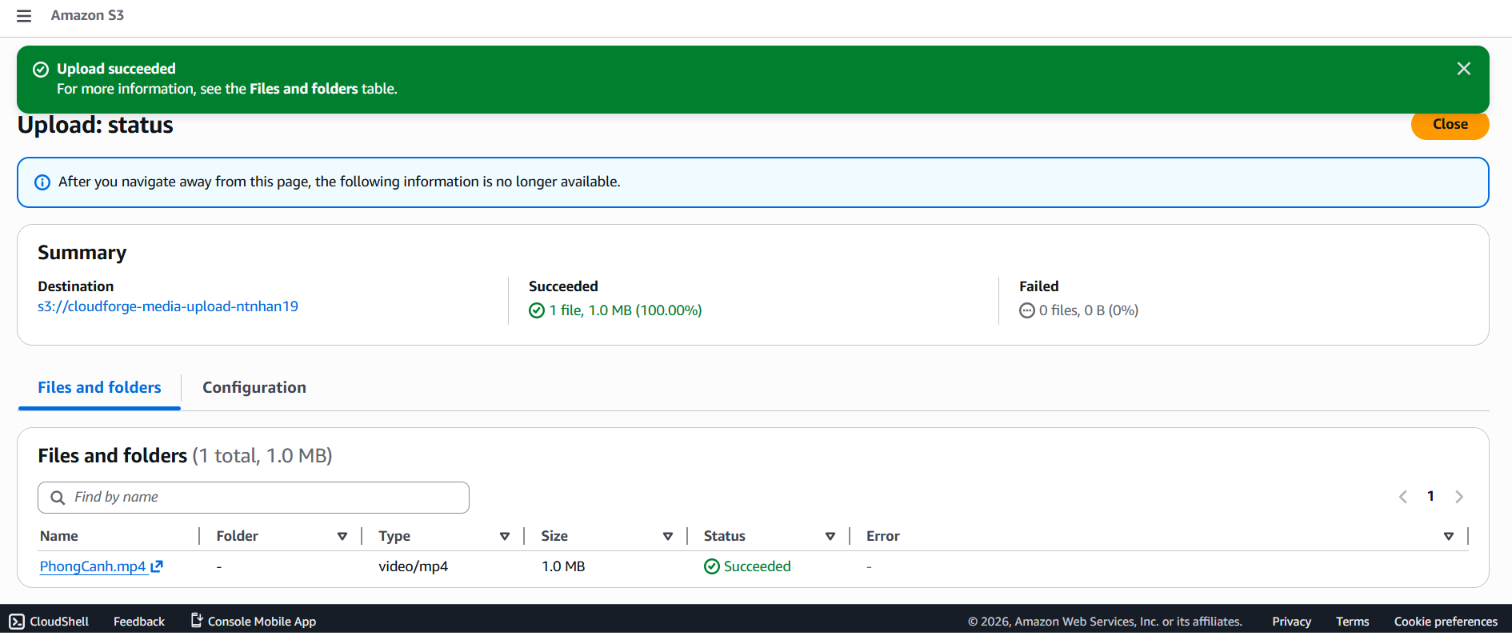
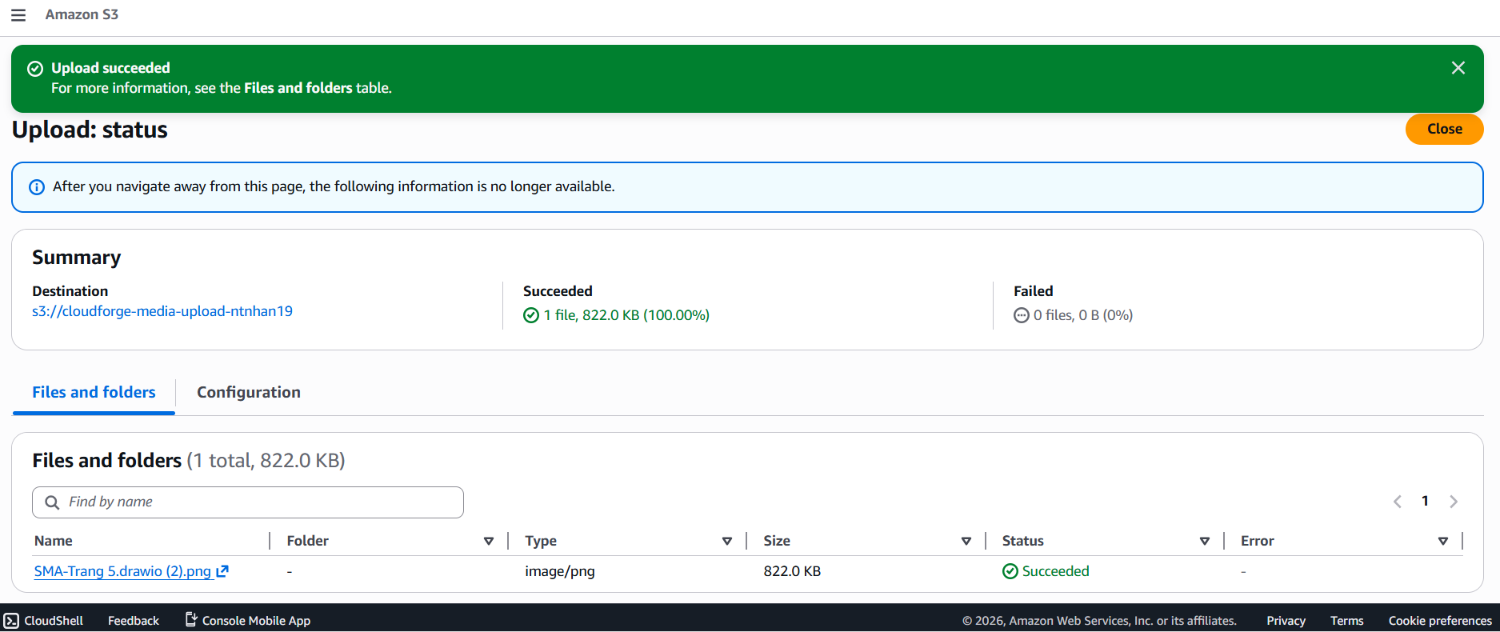
docs(workshop): add detailed image placeholders for testing ingestion flow in 5.6.4

diff --git a/content/5-Workshop/5.6-Ingestion-workflow/5.6.4-test-ingestion-flow/_index.md b/content/5-Workshop/5.6-Ingestion-workflow/5.6.4-test-ingestion-flow/_index.md
@@ -14,14 +14,19 @@ The test scenario is divided into two independent phases to demonstrate the syst
 The objective of this phase is to confirm that Amazon EventBridge correctly catches the state change event from Amazon S3 and securely delivers the metadata payload into the Amazon SQS queue.
 
 **Step 1: Upload a sample data file**
-- Access the console interface of the S3 Bucket `cloudforge-media-upload-ntnhan19`.
+- Access the console interface of **[Amazon S3](https://s3.console.aws.amazon.com/s3/home)** and select the Bucket `cloudforge-media-upload-ntnhan19`.
 - Click **Add files**, select a sample multimedia file (e.g., `sample-audio.mp3` or `demo-video.mp4`) from your computer, and click **Upload**.
 
 *Illustration: Successfully uploading a sample file to the Amazon S3 Bucket.*
 ![S3 Upload Success](/images/5-Workshop/5.6-Ingestion-workflow/5.6.4-test-ingestion-flow/s3_upload_success.png)
 
 **Step 2: Verify and validate the message in the SQS queue**
-- Access the **Amazon SQS** service → Select the main task queue `cloudforge-media-task-queue`.
+- Access the **[Amazon SQS](https://console.aws.amazon.com/sqs/v2/home#/queues)** service → Select the main task queue `cloudforge-media-task-queue`.
+- (Optional) In the **Details** section, click the **`► More`** toggle to expand it. You will see the **Messages available** metric increase (e.g., 1), indicating a new event has entered the queue.
+
+*Illustration: Expanding the More section to see the Messages available metric.*
+![SQS Queue Details](/images/5-Workshop/5.6-Ingestion-workflow/5.6.4-test-ingestion-flow/sqs_queue_list.png)
+
 - Click **Send and receive messages** → Scroll down to the *Receive messages* section and click **Poll for messages**.
 - Click on the ID of the newly appeared message to inspect the **Body** tab. The JSON payload sent by EventBridge must accurately contain:
   - The generated event: `ObjectCreated:Put`.
@@ -34,8 +39,14 @@ The objective of this phase is to confirm that Amazon EventBridge correctly catc
 The objective of this phase is to verify the validity and business logic branching capabilities of the state machine upon receiving an orchestration request.
 
 **Step 1: Trigger State Machine execution**
-- Access the **AWS Step Functions** service → Select the state machine `cloudforge-media-workflow`.
-- Click the **Start execution** button. In the Input dialog, keep the default structure and click **Start execution** again.
+- Access the **[AWS Step Functions](https://console.aws.amazon.com/states/home#/statemachines)** service → Select the state machine `cloudforge-media-workflow`.
+- Click the **Start execution** button. In the Input dialog, you can enter a dummy JSON payload (e.g., `{"status": "success"}`) and click **Start execution** again.
+
+*Illustration: Entering a dummy JSON payload and triggering the State Machine.*
+![Step Functions Input Mock](/images/5-Workshop/5.6-Ingestion-workflow/5.6.4-test-ingestion-flow/step_functions_input_mock.png)
+
+*Illustration: The list of Executions for the State Machine.*
+![Step Functions Execution List](/images/5-Workshop/5.6-Ingestion-workflow/5.6.4-test-ingestion-flow/step_functions_execution_list.png)
 
 **Step 2: Visually monitor the workflow (Graph View)**
 - Based on the placeholder condition (`{% true %}`) established during the skeleton building segment, the execution flow will automatically transition sequentially from `Start Processing` → pass the evaluation point `Check Status` → accurately converge on the successful task branch `Update Metadata`.
@@ -43,6 +54,13 @@ The objective of this phase is to verify the validity and business logic branchi
 
 *Illustration: Graph View diagram of Step Functions successfully executing the branching orchestration cycle.*
 ![Step Functions Success](/images/5-Workshop/5.6-Ingestion-workflow/5.6.4-test-ingestion-flow/step_functions_success.png)
+
+**Step 3: Analyze Input/Output Data**
+- Click on any specific step on the Graph View (e.g., `Update Metadata`).
+- On the right panel, inspect the **Step input** and **Step output** tabs to clearly see how data is passed between states. *(Note: Since these are currently just placeholder "Pass States", the JSON data you entered in Step 1 will simply pass directly from Input to Output without modification).*
+
+*Illustration: Detailed In/Out Payload of a State in Step Functions.*
+![Step Functions Details](/images/5-Workshop/5.6-Ingestion-workflow/5.6.4-test-ingestion-flow/step_functions_details.png)
 
 #### 3. Conclusion of the Workflow Orchestration Tier
 The experimental results demonstrate that the entire Ingestion Workflow pipeline operates exactly as per the initial architectural design. Data from the storage tier has been routed and securely isolated in the queue buffer, and the orchestration scenario is ready to connect with actual computing applications.